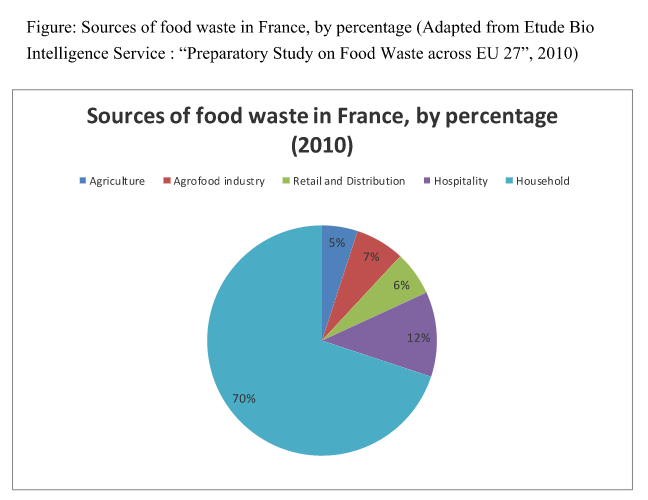
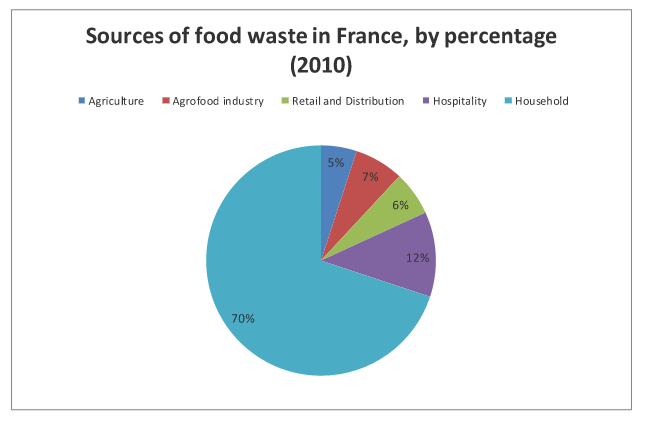
Update project idea

diff --git a/_layouts/default.html b/_layouts/default.html
@@ -33,10 +33,6 @@
         </div>
         <div class="mdl-layout__tab-bar mdl-color--primary-dark">
           {% for link in site.navigation %}
-            <!-- {{ page.url }}
-            {{ link.url }}
-            {{ page.group }}
-            {{ link.group }} -->
             {% if page.group == link.group %}  
               <a class="current mdl-layout__tab" href="{{ site.baseurl }}/{{ link.url }}">{{ link.text }}</a>
             {% else %}

diff --git a/_posts/2015-7-30-idea.md b/_posts/2015-7-30-idea.md
@@ -2,15 +2,18 @@
 layout: post
 title: Project Idea
 group: post
+update: 2015-8-13
 ---
 
 Do you know that every year, each person in France throws away about 30 kg of food, and 7kg of the food is still-packaged food products. It costs around 100 euro/person/year, therefore the cost of food waste for a family of 4 people is 400 euros.The total cost for food waste is 12 to 20 billion euros/year.
 
 In the other hand, regarding to a research of the Organisation for Economic Co-operation and Development (OECD) in 2014, overweight and obesity rates in France are among the lowest in Europe, but have been increasing steadily. One in 8 adults is obese in France, and 40% are overweight (including obese).
-![Food waste]({{ site.url }}/images/food-waste.png)
+
+{% include image.html img="/images/food-waste.png" title="Food waste" caption="Sources of food waste in France, by percentage (Adapted from Etude Bio Intelligence Service : Preparatory Study on Food Waste across EU 27, 2010)" class="normal" width="auto" height="auto" %}
 
 Do you think two things below is concerned? We can say yes! When you buy more than you need and eat more than your body can absorb, you waste your money because you will throw the products when it is near the expiration date, or you try to eat more than you can, which is worse for your health.
-![Obesity trend]({{ site.url }}/images/obesity-trend.png)
+
+{% include image.html img="/images/obesity-trend.png" title="Obesity trend" caption="Trends in the prevalence of overweight (including obesity) in adults, projections and recent estimates, selected OECD countries" class="normal" width="auto" height="auto" %}
 
 By introducing our project, we want to make an application that help people to control their weight, reduce food waste in their fridge and also save their money.
 
